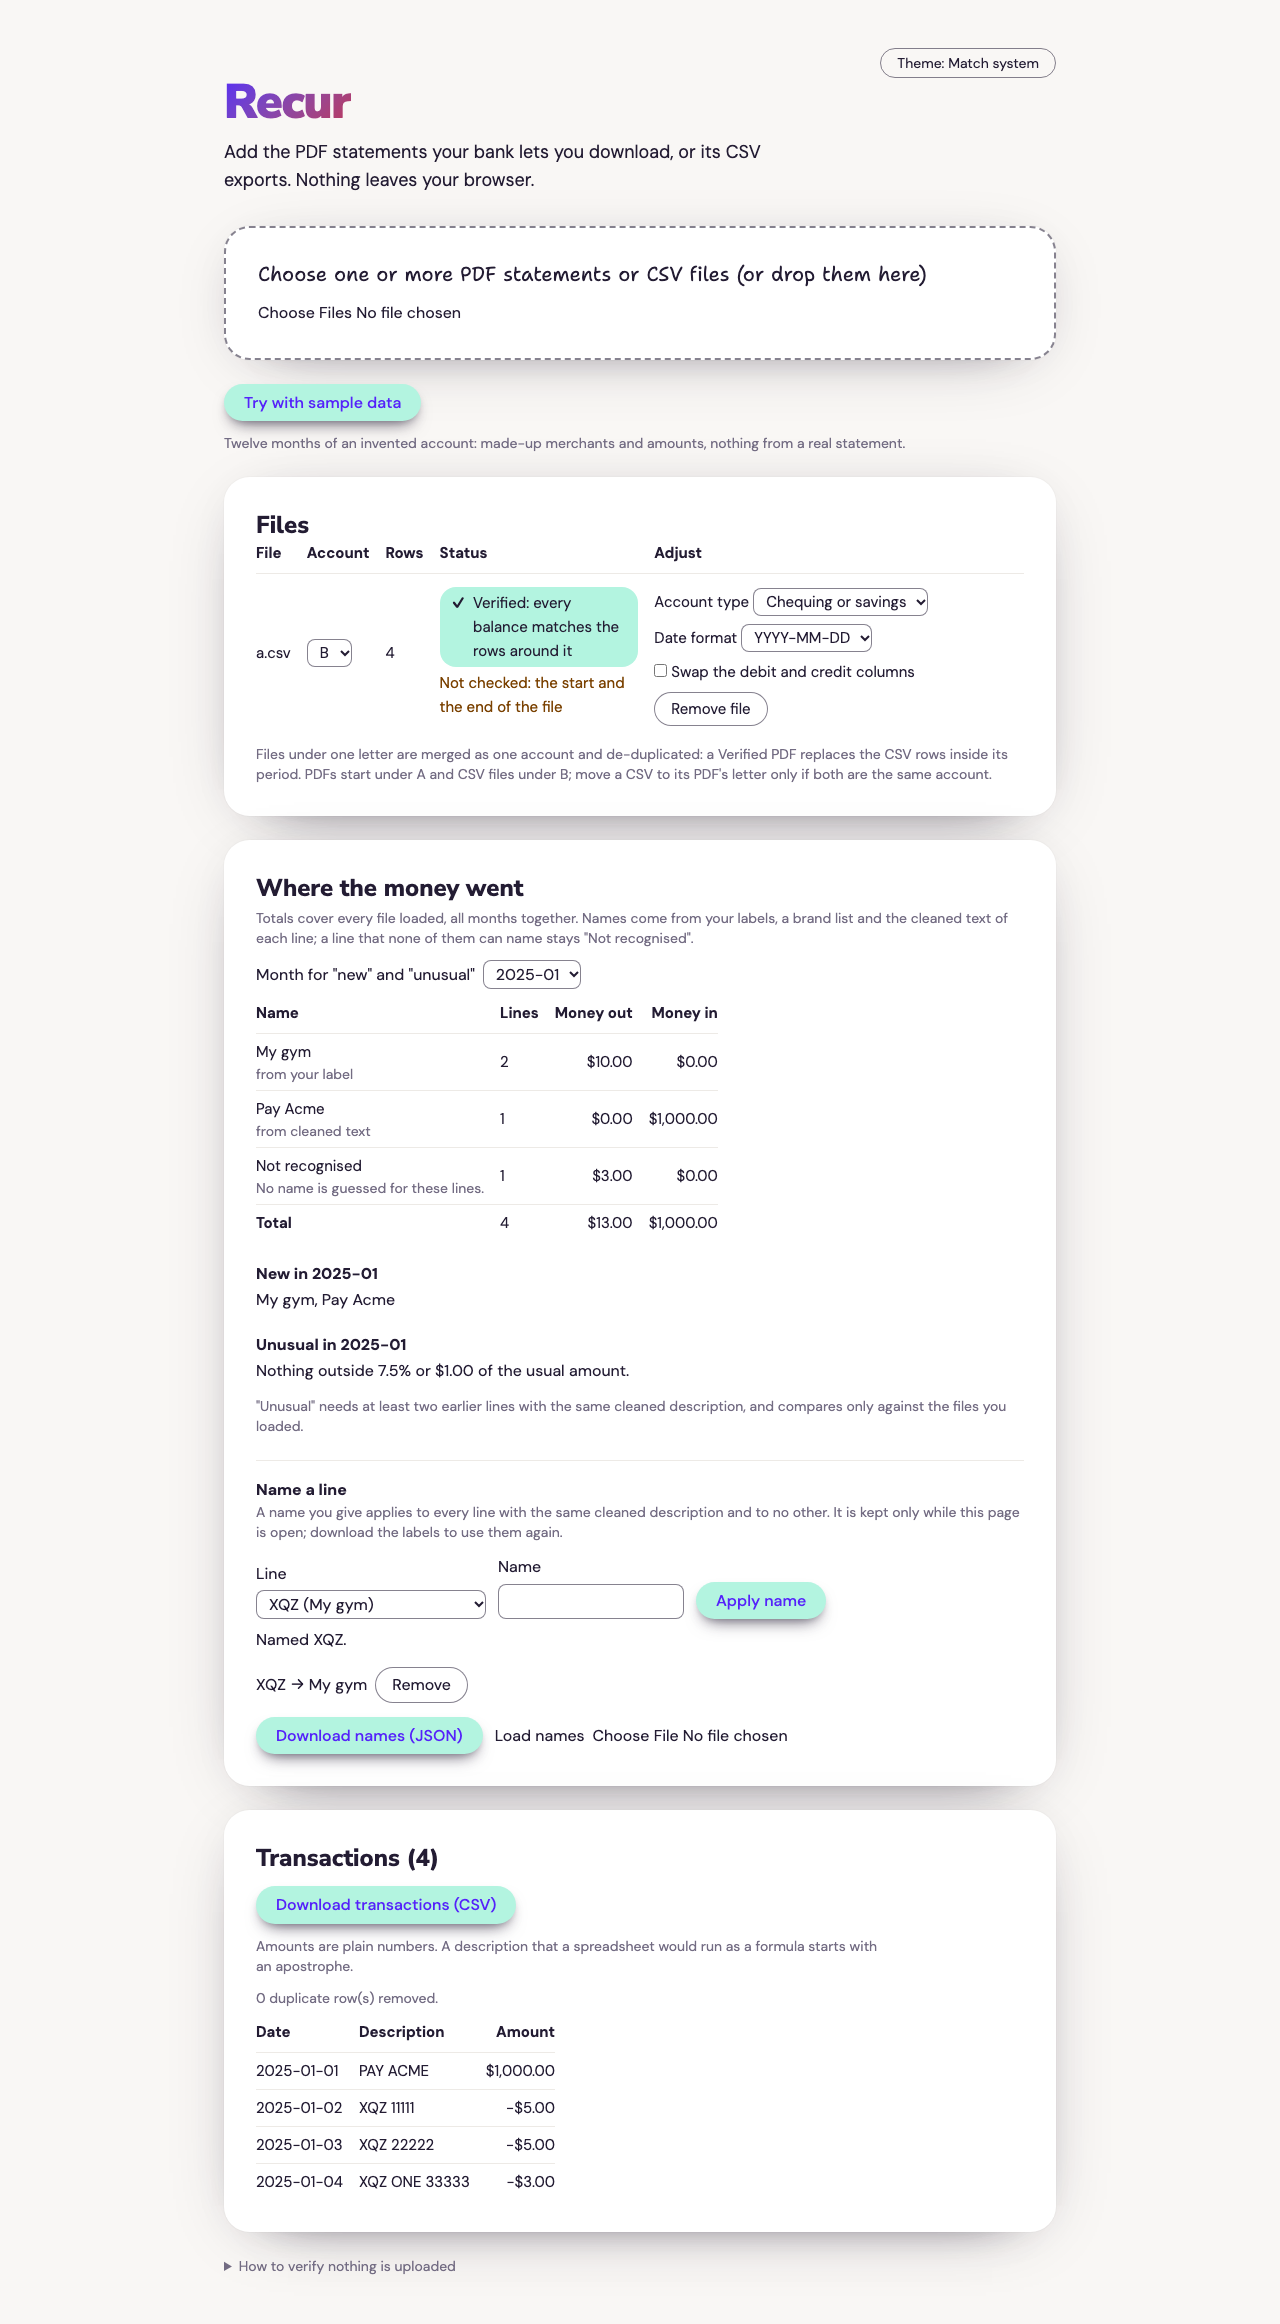
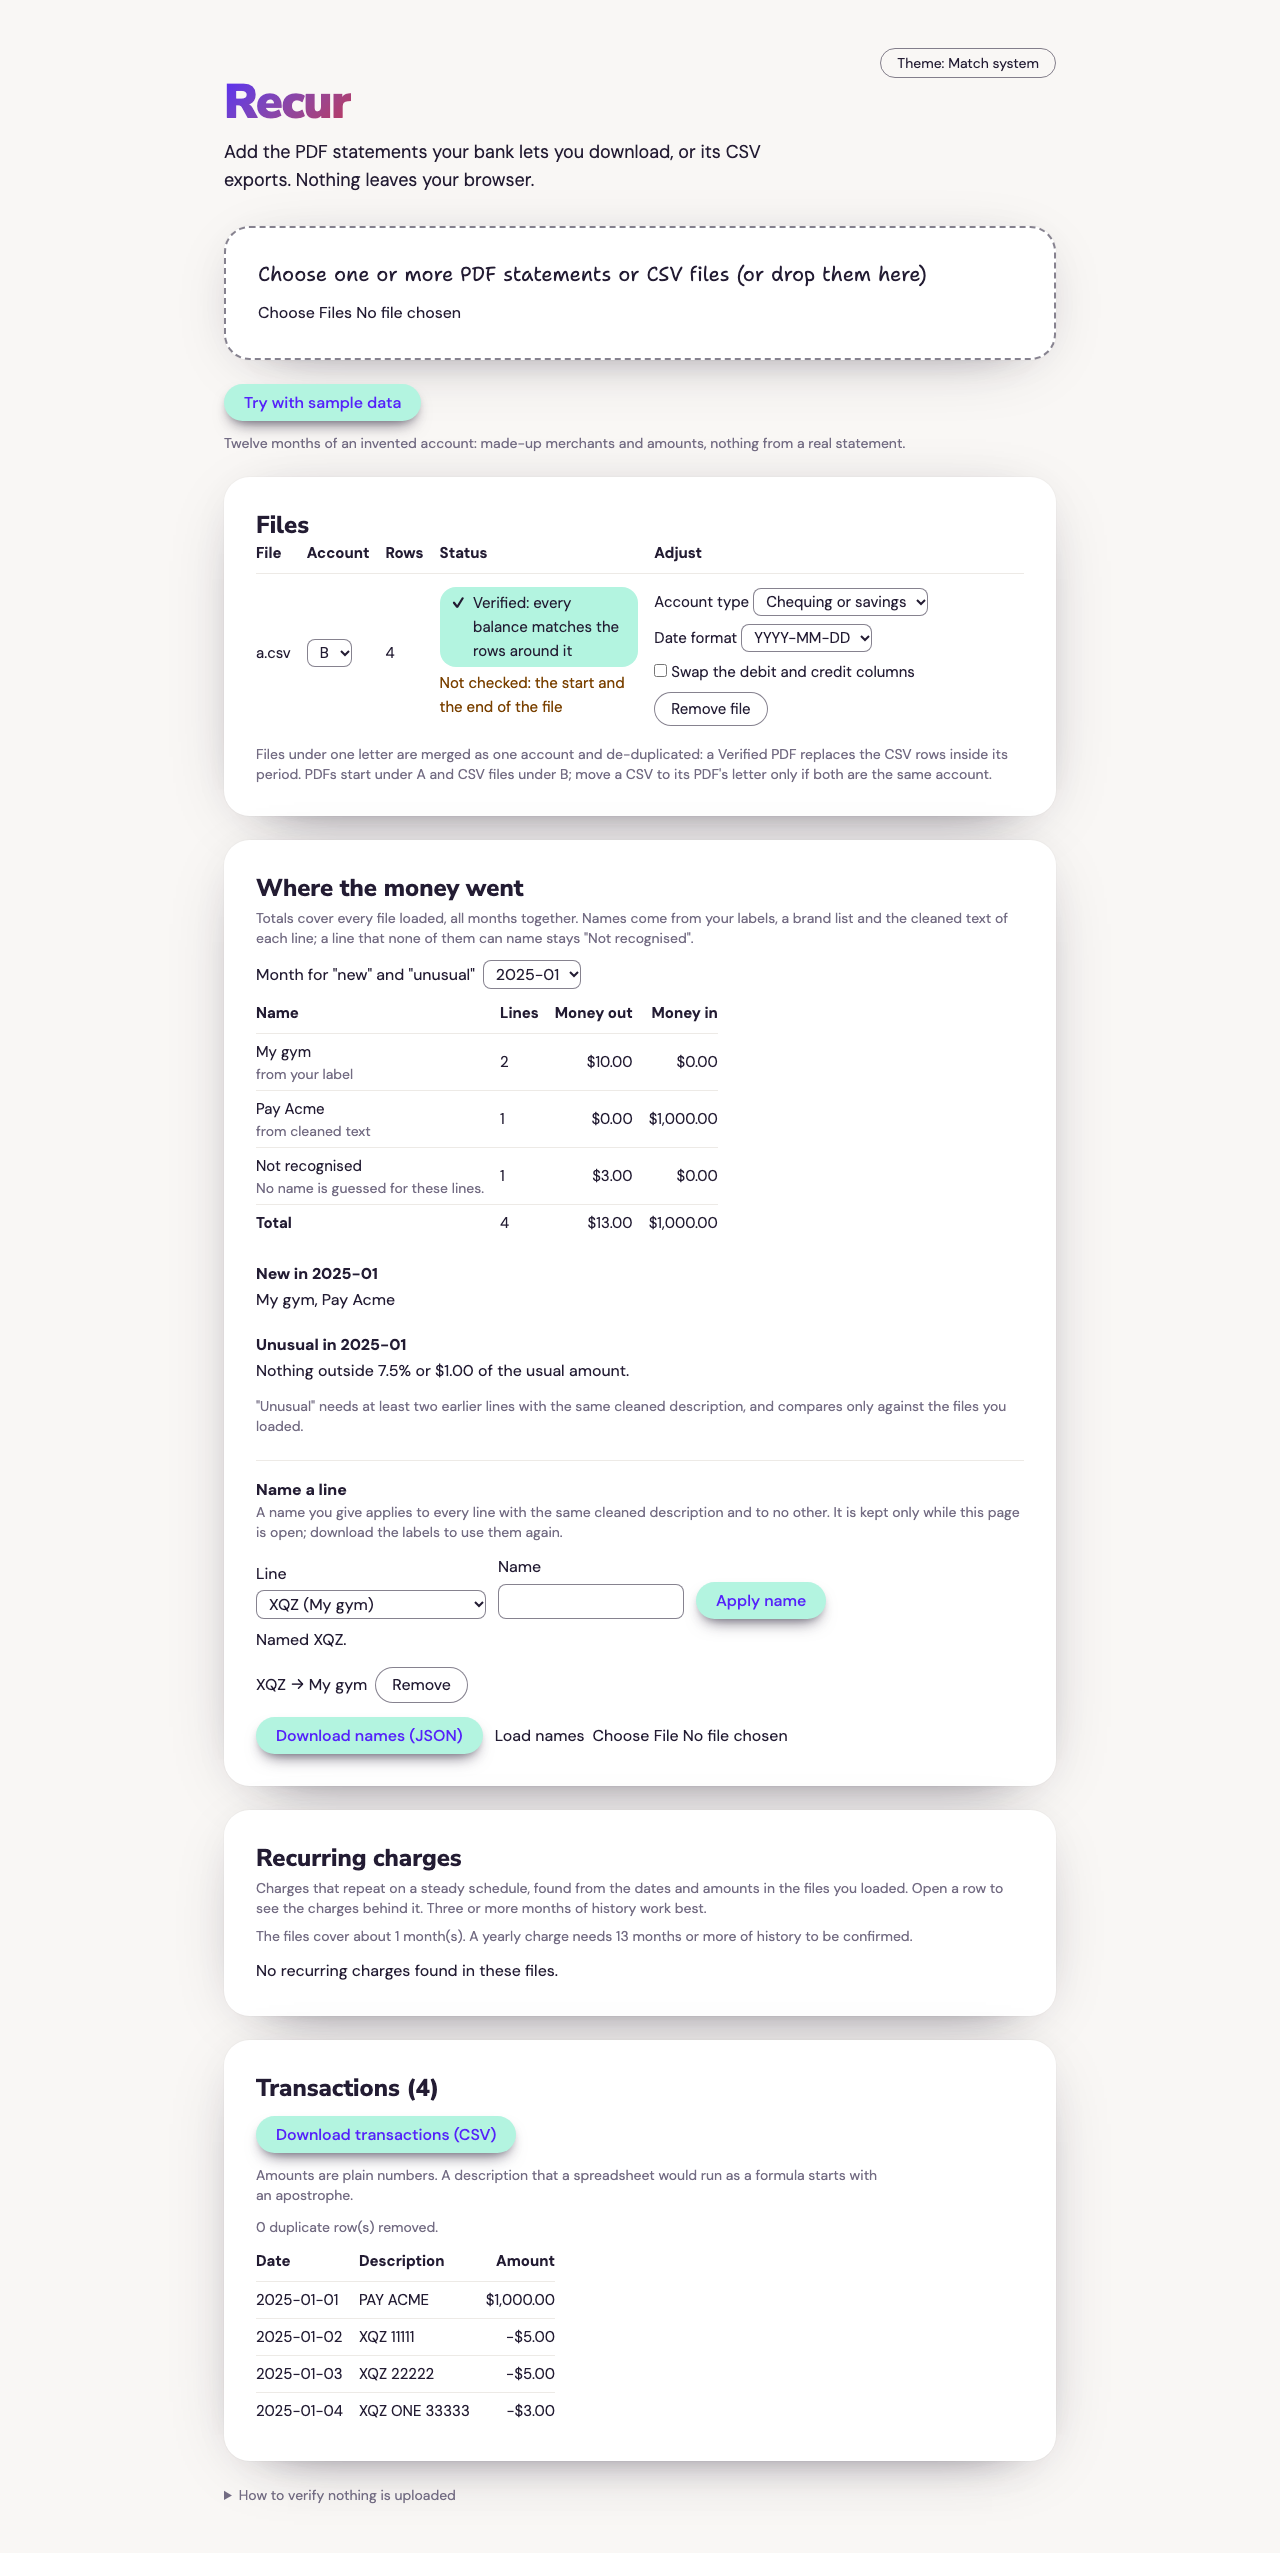
List recurring charges with evidence, price changes and a Not recurring button

Changed region(s): [[0.1562, 0.031, 0.8125, 0.9914], [0.6875, 0.0, 0.8125, 0.031]]

diff --git a/src/ui/Recurring.tsx b/src/ui/Recurring.tsx
@@ -1,0 +1,213 @@
+import { useMemo, useState } from "react";
+import { BRANDS } from "../core/merchant/brands";
+import { labelMap } from "../core/merchant/labels";
+import type { LabelFile } from "../core/merchant/types";
+import { formatCents } from "../core/money";
+import { annualHistoryNote, detectRecurring } from "../core/recurring/detect";
+import type { RecurringSeries } from "../core/recurring/types";
+import type { Transaction } from "../core/types";
+import { CONFIDENCE_LABEL, cadenceLabel } from "./recurringView";
+
+const SHEET = "rounded-3xl bg-white-sheet p-5 shadow-sheet sm:p-8";
+const H2 = "font-display text-2xl font-extrabold";
+const FINE = "text-sm text-quiet-gray";
+const TH = "pr-4 pb-2 text-left font-bold";
+const TD = "border-t border-stone py-1.5 pr-4 align-top";
+const BTN_QUIET =
+  "rounded-pill border border-ink/55 bg-white-sheet px-4 py-1 text-ink";
+
+function Row({
+  s,
+  verified,
+  onDismiss,
+}: {
+  s: RecurringSeries;
+  verified: boolean;
+  onDismiss: () => void;
+}) {
+  const lines = [...new Map(s.occurrences.map((t) => [t.id, t])).values()];
+  return (
+    <tr data-testid="recurring-row">
+      <td className={TD}>
+        {s.displayName}
+        {s.ambiguous && (
+          <span className={`block ${FINE}`}>
+            An app store or payment processor: several services can hide behind
+            this name.
+          </span>
+        )}
+        {!verified && (
+          <span className="block text-warning-ink">
+            <span aria-hidden="true">{"⚠ "}</span>
+            Includes lines from a file that is not Verified
+          </span>
+        )}
+        <details className="mt-1">
+          <summary className={FINE}>{lines.length} charge(s)</summary>
+          <ul className={FINE}>
+            {lines.map((t) => (
+              <li
+                key={t.id}
+                className="whitespace-nowrap"
+              >{`${t.date} ${t.description} ${formatCents(t.amount)}`}</li>
+            ))}
+          </ul>
+        </details>
+      </td>
+      <td className={TD}>{cadenceLabel(s.cadence)}</td>
+      <td className={TD}>
+        {formatCents(s.typicalAmount)}
+        {s.amountKind === "variable" && (
+          <span className={`block ${FINE}`}>amount varies</span>
+        )}
+        {s.priceChange && (
+          <span className="block text-warning-ink">
+            <span aria-hidden="true">{"▲ "}</span>
+            Price changed from {formatCents(s.priceChange.from)} to{" "}
+            {formatCents(s.priceChange.to)} on {s.priceChange.since}
+          </span>
+        )}
+      </td>
+      <td className={`${TD} text-right`}>{formatCents(s.monthlyEquivalent)}</td>
+      <td className={`${TD} text-right`}>
+        {formatCents(s.monthlyEquivalent * 12)}
+      </td>
+      <td className={TD}>{s.nextExpected}</td>
+      <td className={TD}>{CONFIDENCE_LABEL[s.confidence]}</td>
+      <td className="border-t border-stone py-1.5 align-top">
+        <button
+          type="button"
+          className={BTN_QUIET}
+          aria-label={`Not recurring: ${s.displayName}`}
+          onClick={onDismiss}
+        >
+          Not recurring
+        </button>
+      </td>
+    </tr>
+  );
+}
+
+/**
+ * The recurring charges the detector found (FR-7, FR-8, FR-14, FR-15), each with its evidence.
+ * "Not recurring" hides a false positive for this visit only (FR-9): nothing is stored.
+ */
+export function Recurring({
+  transactions,
+  verifiedStatementIds,
+  labels,
+}: {
+  transactions: readonly Transaction[];
+  verifiedStatementIds: ReadonlySet<string>;
+  labels: LabelFile;
+}) {
+  const [dismissed, setDismissed] = useState<ReadonlySet<string>>(new Set());
+  const series = useMemo(
+    () =>
+      detectRecurring(transactions, {
+        brands: BRANDS,
+        labels: labelMap(labels),
+      }),
+    [transactions, labels],
+  );
+  const note = useMemo(() => annualHistoryNote(transactions), [transactions]);
+  const shown = series.filter((s) => !dismissed.has(s.merchantKey));
+  const hidden = series.filter((s) => dismissed.has(s.merchantKey));
+  const confirmed = shown.filter((s) => s.cadence !== "annual-possible");
+  const perMonth = confirmed.reduce((sum, s) => sum + s.monthlyEquivalent, 0);
+  const set = (key: string, hide: boolean) =>
+    setDismissed((prev) => {
+      const next = new Set(prev);
+      if (hide) next.add(key);
+      else next.delete(key);
+      return next;
+    });
+
+  return (
+    <section className={SHEET} data-testid="recurring">
+      <h2 className={H2}>Recurring charges</h2>
+      <p className={`mt-1 ${FINE}`}>
+        Charges that repeat on a steady schedule, found from the dates and
+        amounts in the files you loaded. Open a row to see the charges behind
+        it. Three or more months of history work best.
+      </p>
+      {note && <p className={`mt-2 ${FINE}`}>{note}</p>}
+      {shown.length === 0 ? (
+        <p className="mt-3" data-testid="recurring-empty">
+          No recurring charges found in these files.
+        </p>
+      ) : (
+        <div className="overflow-x-auto">
+          <table className="mt-3 text-[15px]">
+            <thead>
+              <tr>
+                <th className={TH}>Charge</th>
+                <th className={TH}>How often</th>
+                <th className={TH}>Amount</th>
+                <th className={`${TH} text-right`}>Per month</th>
+                <th className={`${TH} text-right`}>Per year</th>
+                <th className={TH}>Next expected</th>
+                <th className={TH}>Confidence</th>
+                <th className="pb-2 text-left font-bold">
+                  <span className="sr-only">Actions</span>
+                </th>
+              </tr>
+            </thead>
+            <tbody>
+              {shown.map((s) => (
+                <Row
+                  key={s.merchantKey}
+                  s={s}
+                  verified={s.occurrences.every((t) =>
+                    verifiedStatementIds.has(t.source.statementId),
+                  )}
+                  onDismiss={() => set(s.merchantKey, true)}
+                />
+              ))}
+            </tbody>
+            <tfoot>
+              <tr>
+                <th className={`${TD} text-left`} scope="row" colSpan={3}>
+                  Total of the charges above, without the possible yearly ones
+                </th>
+                <td
+                  className={`${TD} text-right`}
+                  data-testid="recurring-total"
+                >
+                  {formatCents(perMonth)}
+                </td>
+                <td className={`${TD} text-right`}>
+                  {formatCents(perMonth * 12)}
+                </td>
+                <td colSpan={3} className="border-t border-stone" />
+              </tr>
+            </tfoot>
+          </table>
+        </div>
+      )}
+      {hidden.length > 0 && (
+        <div className="mt-4" data-testid="recurring-hidden">
+          <h3 className="font-bold">Hidden for this visit</h3>
+          <ul>
+            {hidden.map((s) => (
+              <li
+                key={s.merchantKey}
+                className="flex flex-wrap items-center gap-2 py-0.5"
+              >
+                {s.displayName}
+                <button
+                  type="button"
+                  className={BTN_QUIET}
+                  aria-label={`Show again: ${s.displayName}`}
+                  onClick={() => set(s.merchantKey, false)}
+                >
+                  Show again
+                </button>
+              </li>
+            ))}
+          </ul>
+        </div>
+      )}
+    </section>
+  );
+}

diff --git a/e2e/recurring.spec.ts b/e2e/recurring.spec.ts
@@ -1,0 +1,77 @@
+import AxeBuilder from "@axe-core/playwright";
+import { expect, type Page, test } from "@playwright/test";
+
+const rec = (page: Page) => page.getByTestId("recurring");
+const row = (page: Page, name: string) =>
+  rec(page).getByRole("row", { name: new RegExp(name) });
+
+const scan = async (page: Page) => {
+  const { violations } = await new AxeBuilder({ page })
+    .withTags(["wcag2a", "wcag2aa", "wcag21a", "wcag21aa"])
+    .analyze();
+  expect(violations.map((v) => v.id)).toEqual([]);
+};
+
+test("the sample shows its recurring charges with evidence, a price change and a total", async ({
+  page,
+}) => {
+  await page.goto("/");
+  await expect(rec(page)).toHaveCount(0);
+  await page.getByRole("button", { name: "Try with sample data" }).click();
+  await expect(rec(page)).toBeVisible();
+  await expect(row(page, "Streamflix")).toContainText("Monthly");
+  await expect(row(page, "Streamflix")).toContainText("$16.99");
+  await expect(row(page, "Maple Rent")).toContainText("$1,200.00");
+  await expect(row(page, "Ironworks Gym")).toContainText(
+    "Price changed from $45.00 to $49.00",
+  );
+  await page.getByTestId("recurring").screenshot({
+    path: "docs/evidence/recurring-light.png",
+  });
+  await row(page, "Streamflix")
+    .getByText(/charge\(s\)/)
+    .click();
+  await expect(row(page, "Streamflix").getByRole("listitem")).toHaveCount(12);
+  await expect(rec(page)).toContainText("13 months or more");
+  await expect(rec(page).getByTestId("recurring-total")).toBeVisible();
+  await scan(page);
+});
+
+test("a dismissed charge is hidden, can be shown again, and is never stored", async ({
+  page,
+}) => {
+  await page.goto("/");
+  await page.getByRole("button", { name: "Try with sample data" }).click();
+  await expect(row(page, "Streamflix")).toBeVisible();
+  await rec(page)
+    .getByRole("button", { name: "Not recurring: Streamflix" })
+    .click();
+  await expect(row(page, "Streamflix")).toHaveCount(0);
+  await expect(rec(page).getByTestId("recurring-hidden")).toContainText(
+    "Streamflix",
+  );
+  const stored = await page.evaluate(async () => ({
+    local: localStorage.length,
+    session: sessionStorage.length,
+    cookie: document.cookie,
+    dbs: (await indexedDB.databases()).length,
+  }));
+  expect(stored).toEqual({ local: 0, session: 0, cookie: "", dbs: 0 });
+  await rec(page)
+    .getByRole("button", { name: "Show again: Streamflix" })
+    .click();
+  await expect(row(page, "Streamflix")).toBeVisible();
+});
+
+test("dark recurring section has no accessibility violations", async ({
+  page,
+}) => {
+  await page.emulateMedia({ colorScheme: "dark" });
+  await page.goto("/");
+  await page.getByRole("button", { name: "Try with sample data" }).click();
+  await expect(rec(page)).toBeVisible();
+  await page.getByTestId("recurring").screenshot({
+    path: "docs/evidence/recurring-dark.png",
+  });
+  await scan(page);
+});

diff --git a/src/ui/Importer.tsx b/src/ui/Importer.tsx
@@ -16,6 +16,7 @@ import { type ImportedFile, summarize } from "./accounts";
 import { analyzeCsv, applyChoices, columnRoles } from "./analyze";
 import demoCsv from "./demo/sample-chequing.csv?raw";
 import { Readout } from "./Readout";
+import { Recurring } from "./Recurring";
 import { verifiedIds } from "./readoutView";
 import { readPdf } from "./readPdf";
 
@@ -559,6 +560,14 @@ export function Importer() {
               verifiedStatementIds={verifiedStatementIds}
               labels={labels}
               onLabels={setLabels}
+            />
+          )}
+
+          {transactions.length > 0 && (
+            <Recurring
+              transactions={transactions}
+              verifiedStatementIds={verifiedStatementIds}
+              labels={labels}
             />
           )}
 

diff --git a/src/ui/recurringView.ts b/src/ui/recurringView.ts
@@ -1,0 +1,18 @@
+import type { SeriesCadence } from "../core/recurring/types";
+
+const LABEL: Record<SeriesCadence, string> = {
+  weekly: "Weekly",
+  biweekly: "Every two weeks",
+  monthly: "Monthly",
+  quarterly: "Every three months",
+  annual: "Yearly",
+  "annual-possible": "Yearly? (one charge so far)",
+};
+
+export const cadenceLabel = (c: SeriesCadence): string => LABEL[c];
+
+export const CONFIDENCE_LABEL = {
+  high: "High",
+  medium: "Medium",
+  low: "Low",
+} as const;

diff --git a/docs/PROGRESS.md b/docs/PROGRESS.md
@@ -171,6 +171,11 @@ Queued by the autonomous workflow. Claude does not attempt these.
 
 Newest first. One entry per session: date, what changed, what was verified, what is next.
 
+### 2026-11-26 — Recurring charges list (#36, FR-7, FR-9, FR-14, FR-15)
+
+- `src/ui/Recurring.tsx` after the readout: one row per series (name, how often, amount with "amount varies" and a price-change note with its date, per month, per year, next expected, confidence in words, evidence in a `<details>` list), a total of the listed charges without the possible yearly ones, the 13-month history note, an app-store or processor note (FR-14), a "not Verified" warning per row, and "Not recurring" buttons that hide a charge for this visit only (FR-9; a "Hidden for this visit" list with "Show again"; nothing is stored, checked in e2e). Buttons carry accessible names that begin with their visible text (axe `label-content-name-mismatch` caught the first version). Evidence: `e2e/recurring.spec.ts` (sample shows Streamflix, Maple Rent and the Ironworks price change 45.00 to 49.00, evidence count, dismiss and restore, no browser storage, axe in light and dark), `docs/evidence/recurring-light.png` and `recurring-dark.png`. Skill used: `agent-skills:frontend-ui-engineering`. Previous PR (#65): four review rounds (price-change logic), CI passed first time each round.
+- Known limits of the detector from the #65 review, not fixed: a weekly or fortnightly series whose price returns to an earlier level is dropped rather than shown as a variable bill (the earlier wording "now variable bills" holds for monthly and quarterly only); a temporary price that reverts can hide a later real change, and the typical amount then shows the median, not the current price; a change of $1 on a charge under about $13.33 is within the tolerance and is not seen; with a rise made of two small steps (10000, 10700, 11500) the typical amount shows the middle level.
+
 ### 2026-11-26 — Recurring detection in core (#34, AC-6)
 
 - `src/core/recurring/detect.ts`: `detectRecurring(transactions, ctx)` groups money-out lines by the decoder's key, merges same-day lines, buckets the gaps (weekly, biweekly, monthly, quarterly; two steady charges a month apart are a low-confidence "possible"), reports fixed or variable amounts, a sustained price step (at least two charges at the new level), annual series (two charges 350 to 380 days apart; one charge of $50 or more is only "annual-possible"), ambiguity for processors and app stores (FR-14), next expected date, monthly equivalent and the evidence lines; transfers, payments, ATM and money in are ignored. `annualHistoryNote` says when under 13 months of history cannot confirm a yearly charge (FR-15). `plainDate.ts` gained `addDays` and `addMonths` (tested, with a round-trip property). No UI yet: the list, dismiss (FR-9), summary download and calendar file are next.
